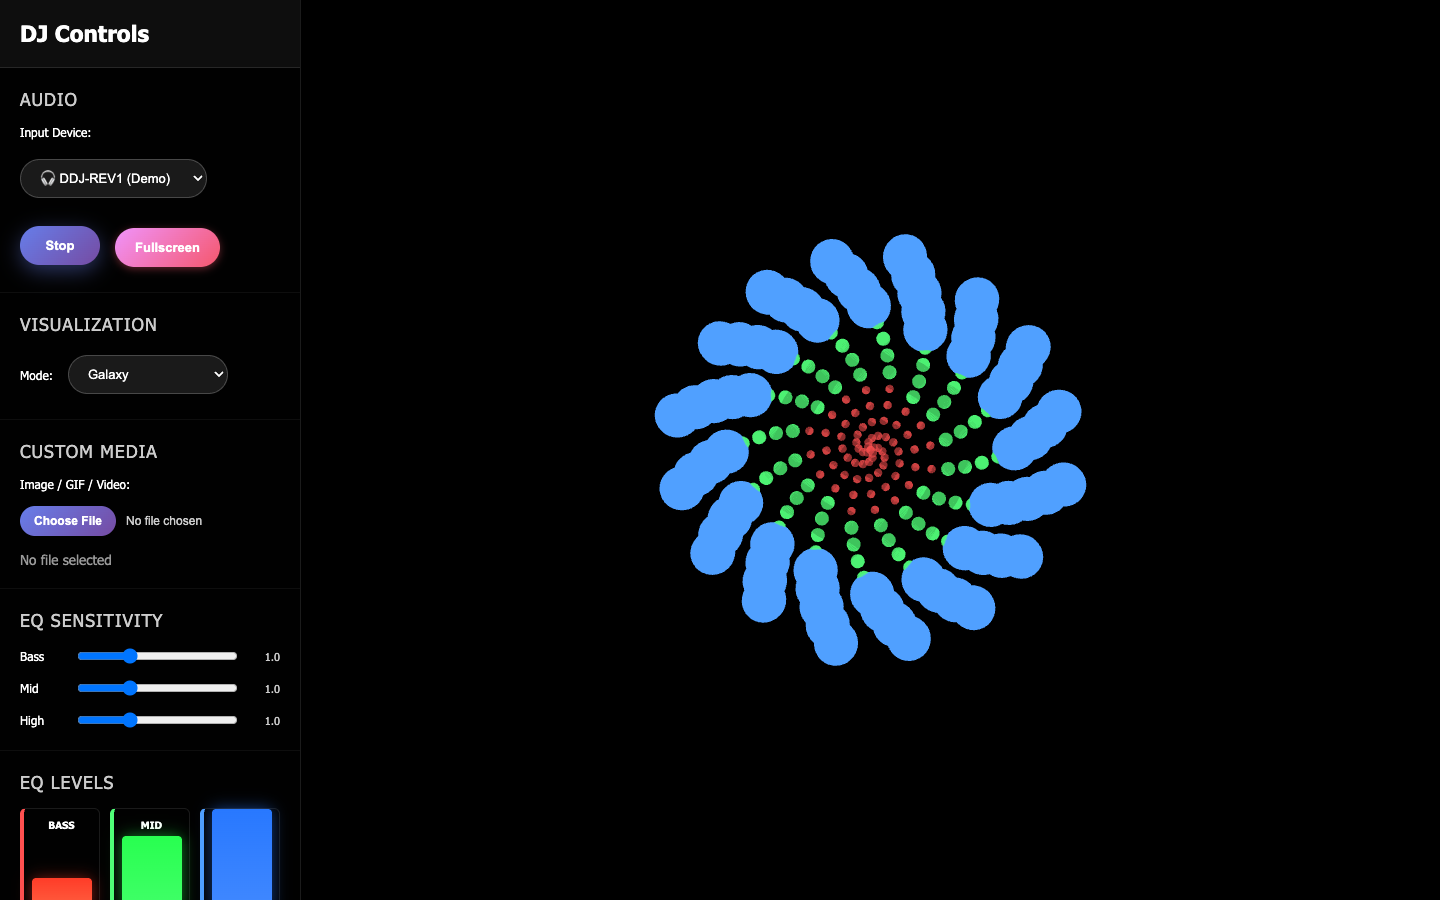
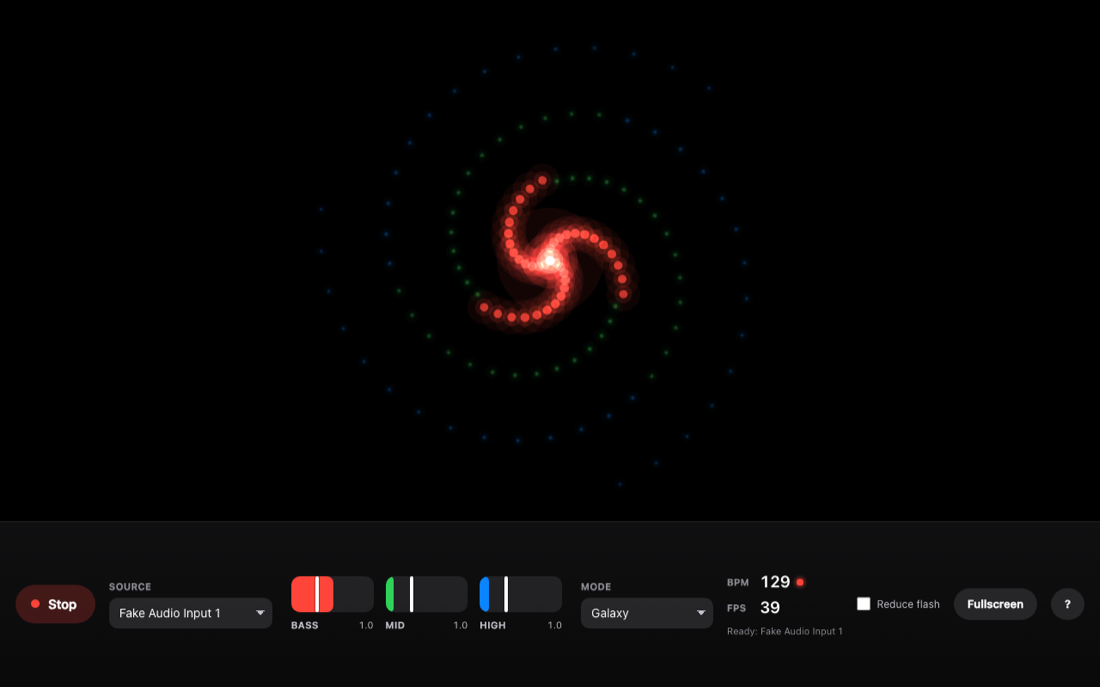
docs: replace README screenshots showing the pre-redesign app
Asked whether the README was up to date. The prose was; the images were not,
and they are the most prominent thing on the page.

All three were committed 2026-07-08, a month before the redesign landed. They
show an application that no longer exists: the 300px opaque sidebar, separate
"EQ SENSITIVITY" sliders and "EQ LEVELS" meters — the two controls that were
secretly one object, which the console merged — gradient purple buttons, a
boxed stage, and a linear randomly-coloured spectrum. A visitor was being shown
different software from the one they would clone.

Replaced with honest captures from the verification suite: the floating console
rail, one control per band with the fill as level and the thumb as gain, the
log-spaced spectrum with peak hold, and Flow as the animated hero. Captioned as
generated from a test signal, since the source dropdown reads "Fake Audio Input
1" — unglamorous but true, and better than fabricating a device name. The
previous set included a screenshot labelled "DDJ-REV1 (Demo)" that was not a
DDJ-REV1.

These are placeholders. PHI-171 (the DDJ hardware check) is the moment to
capture real ones, and they will be better in every way.

Also in this pass:

- Title is now "DJ Visualizer", matching the name PRODUCT.md commits to and the
  document title. "JS DJ Audio Visualizer" matched neither.
- package.json added to the project structure block. The README tells you to
  run npm install; the file it installs from was not listed.
[…]

diff --git a/README.md b/README.md
@@ -1,4 +1,4 @@
-# JS DJ Audio Visualizer
+# DJ Visualizer
 
 A web-based audio visualizer for DJs, built with plain JavaScript and the Web
 Audio API. It listens to **live audio input from your hardware** — a controller,
@@ -12,11 +12,15 @@ real-time visuals off a Pioneer DDJ-REV1 in front of an audience.
 
 ## Demo
 
-![Galaxy visualization mode reacting to audio](docs/screenshots/demo.gif)
+![Flow mode reacting to a 128 BPM kick pattern](docs/screenshots/demo.gif)
 
 | Spectrum Bars | Mandala |
 | --- | --- |
 | ![Spectrum bars mode](docs/screenshots/spectrum-bars.png) | ![Mandala mode](docs/screenshots/mandala-mode.png) |
+
+<sub>Captured by the verification suite against a generated test signal, which is
+why the source reads "Fake Audio Input 1". Real hardware captures replace these
+after the next DDJ check.</sub>
 
 **Live build: [dj-visualizer.netlify.app](https://dj-visualizer.netlify.app)** —
 deployed from `main`. It needs an audio input and microphone permission; with no
@@ -104,6 +108,7 @@ styles/styles.css       Design tokens and console styling
 vendor/p5.min.js        Vendored p5 1.9.0 — never a CDN
 docs/screenshots/       Demo GIF and mode screenshots used by this README
 test/                   Verification harness (see CONTRIBUTING.md)
+package.json            devDependencies and scripts for the harness only
 LICENSE                 MIT
 CONTRIBUTING.md         Constraints, verification, how to add a mode
 PRODUCT.md              Users, constraints, product principles
